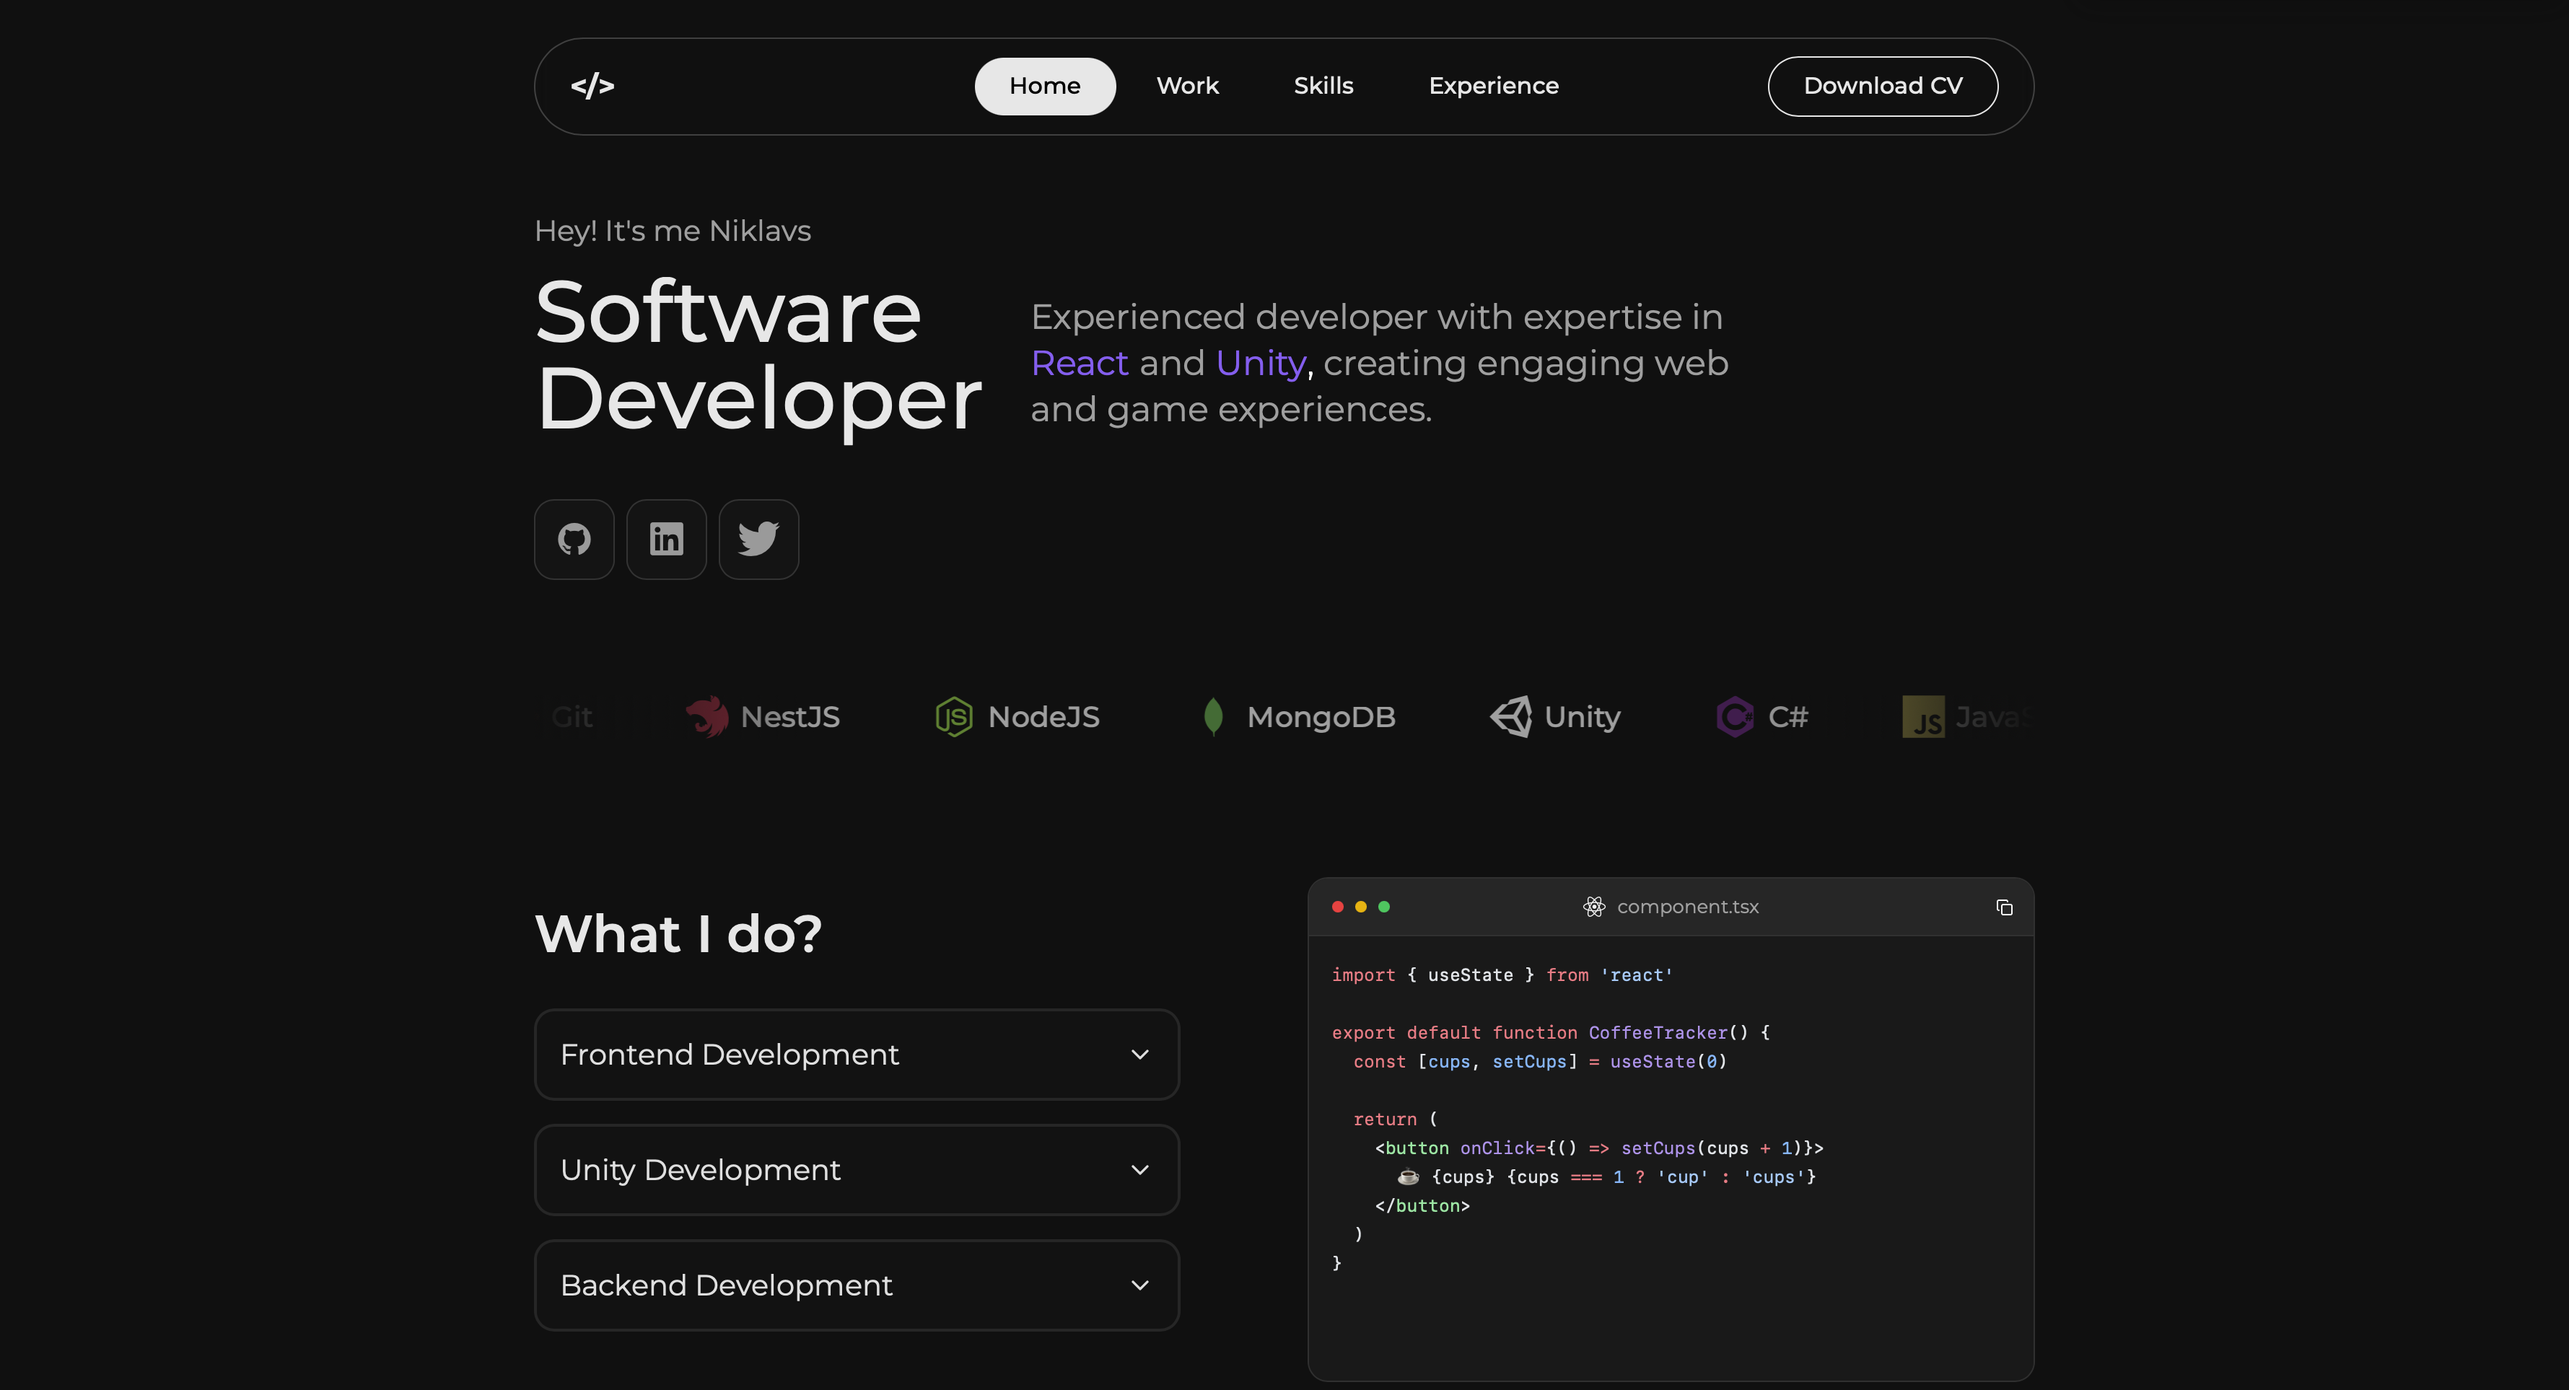
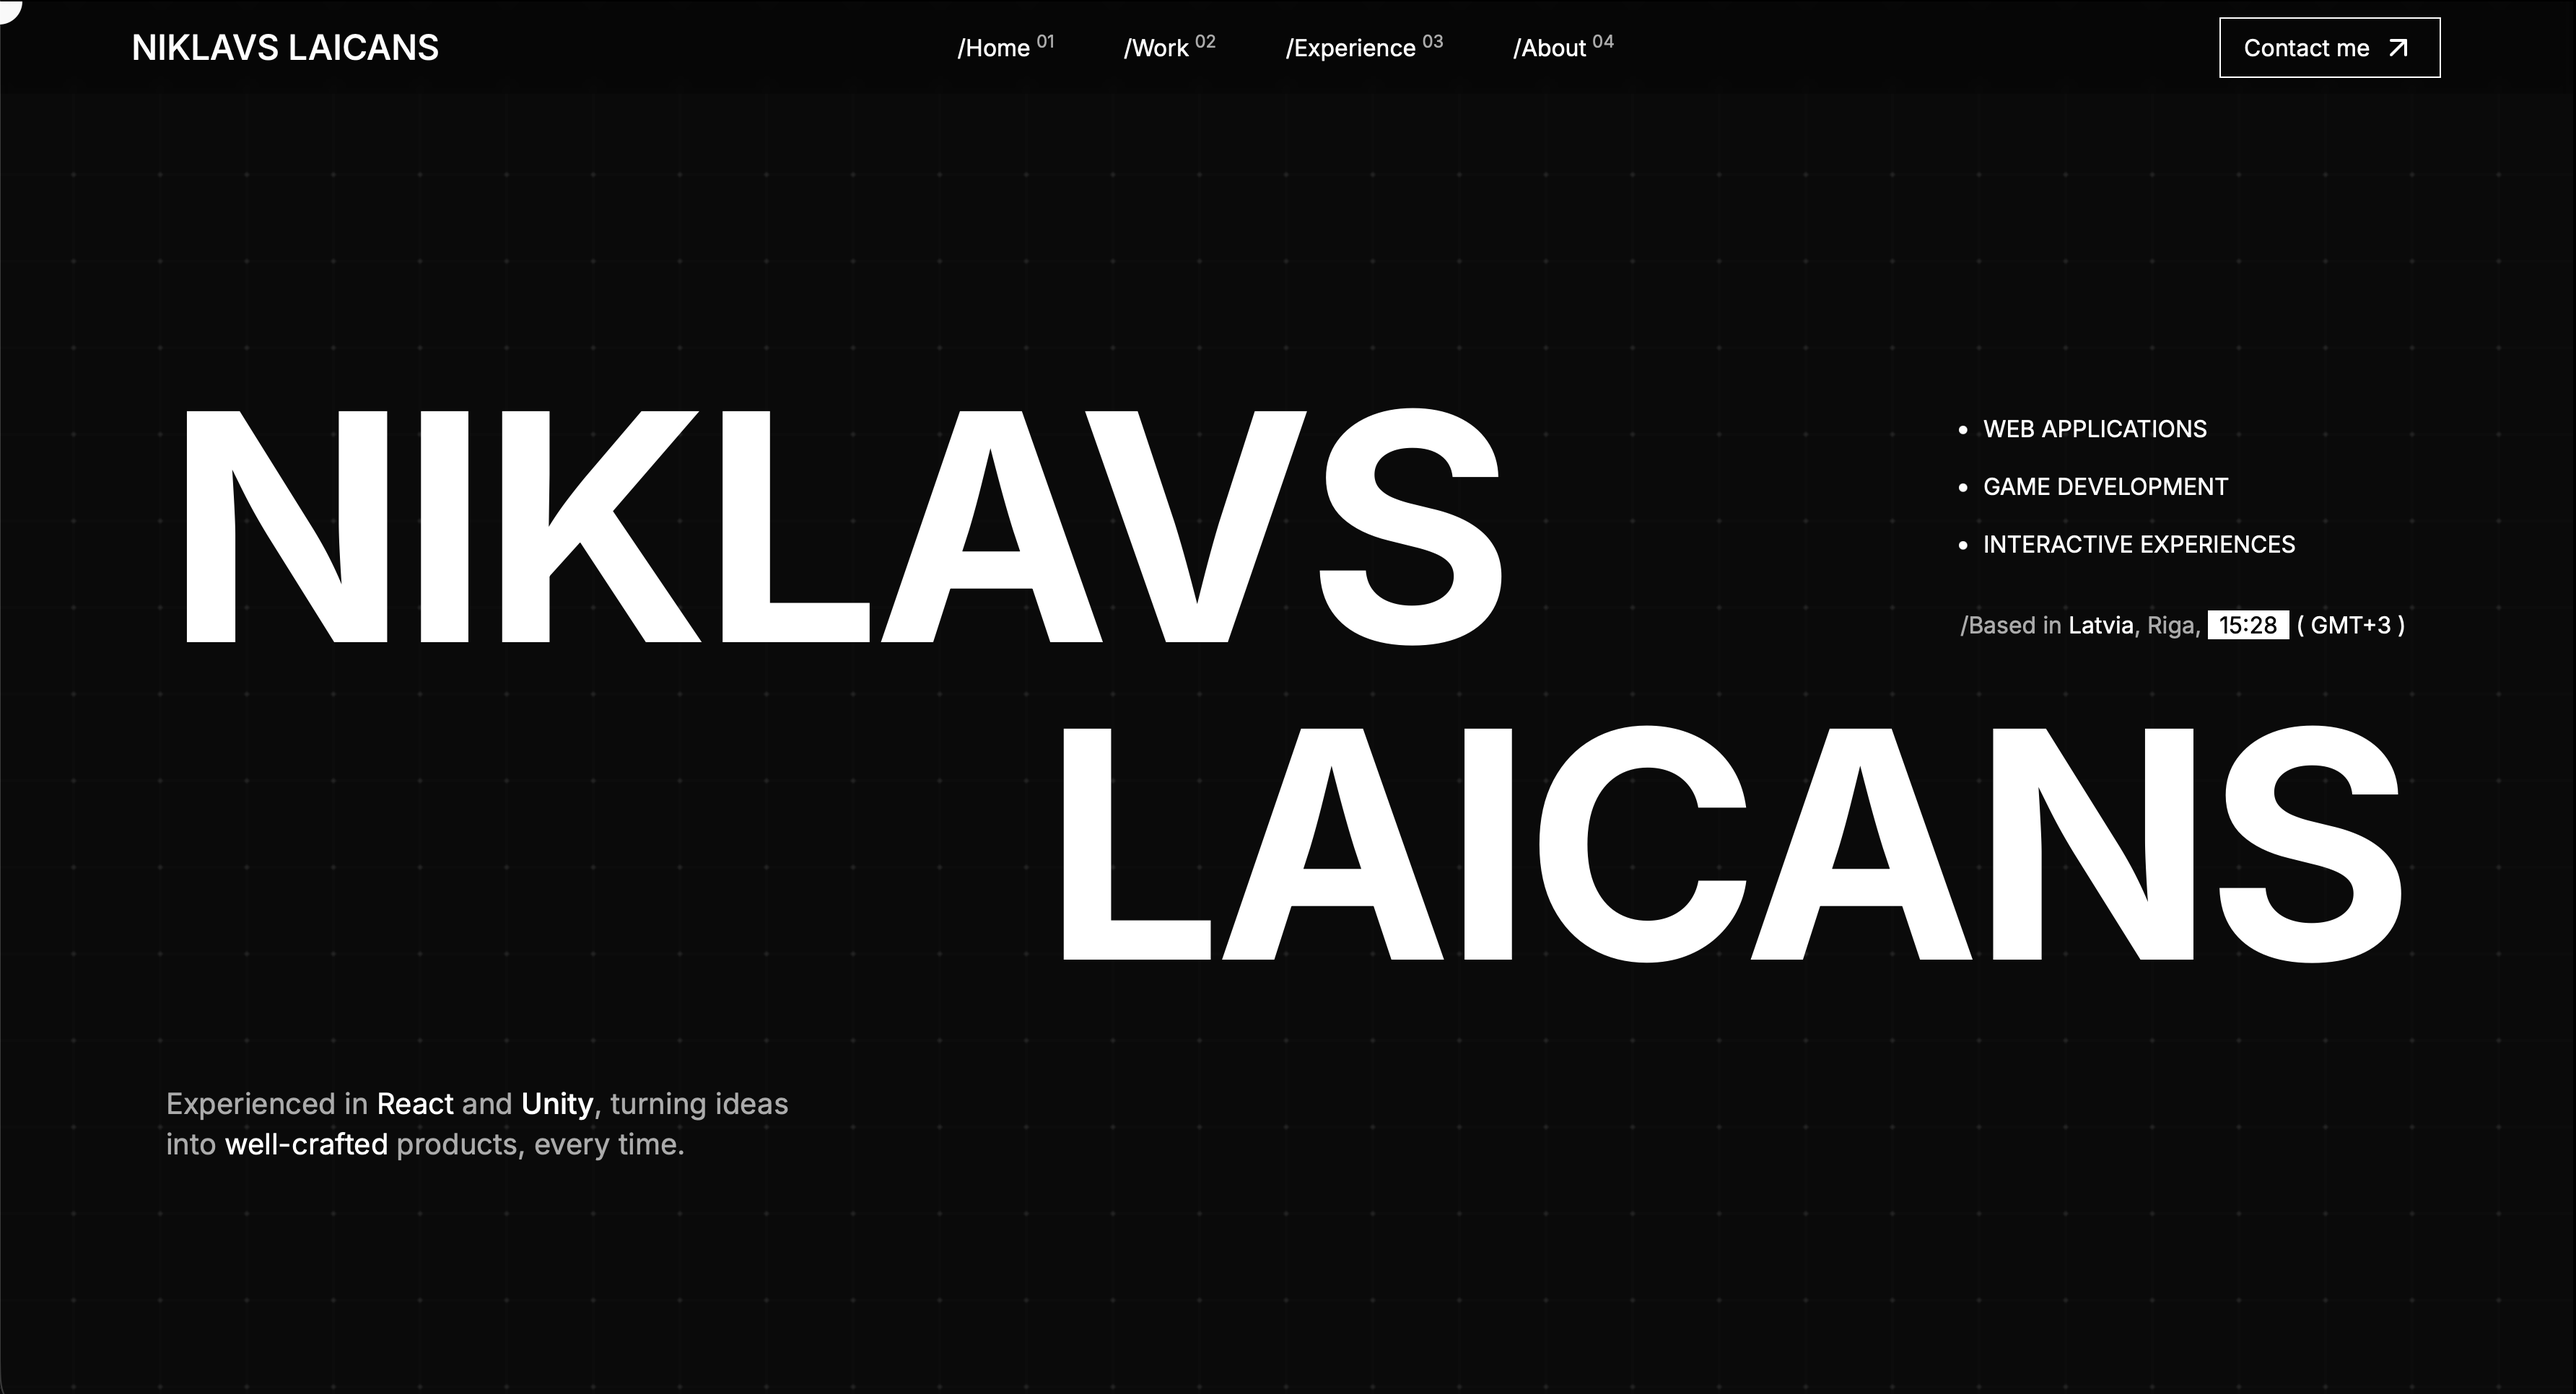
Update work projects and screenshots

diff --git a/src/data/work.ts b/src/data/work.ts
@@ -1,28 +1,28 @@
 import { type Work } from '../types/work'
-import minimalPortfolioImage from '../assets/projects/minimal-portfolio-template.png'
+import portfolioWebsiteImage from '../assets/projects/portfolio-website.png'
 import githubTrafficFrontendImage from '../assets/projects/github-traffic-frontend.png'
 import ticTacToeImage from '../assets/projects/tic-tac-toe.png'
 import googleTrexCloneImage from '../assets/projects/google-trex-clone.png'
-import portfolioWebsiteImage from '../assets/projects/portfolio-website.png'
+import portfolioWebsiteTemplateImage from '../assets/projects/portfolio-website-template.png'
 
 export const workData: Work[] = [
   {
     title: 'Portfolio Website',
     description:
-      'A personal portfolio built with React and TypeScript, featuring smooth scrolling, interactive backgrounds, and a clean minimal design.',
+      "The site you're looking at. A dark, minimal portfolio with an interactive grid hero, Lenis smooth scrolling, scroll-triggered reveals and a custom blend-mode cursor.",
     tags: ['React', 'TypeScript'],
     image: portfolioWebsiteImage,
-    year: '2025',
-    link: 'https://github.com/nikseell/portfolio-website',
+    year: '2026',
+    link: 'https://github.com/Nikseell/portfolio',
   },
   {
-    title: 'Minimal Portfolio Template',
+    title: 'Portfolio Website v1',
     description:
-      'A ready-to-use minimal portfolio template built for developers. Drop in your content, customize the colors, and deploy in minutes.',
+      "My earlier portfolio, built with React and TypeScript. Smooth scrolling, interactive backgrounds and a clean, minimal design, before it was replaced by the site you're on now.",
     tags: ['React', 'TypeScript'],
-    image: minimalPortfolioImage,
+    image: portfolioWebsiteTemplateImage,
     year: '2025',
-    link: 'https://github.com/nikseell/minimal-portfolio-template',
+    link: 'https://github.com/Nikseell/portfolio-website-template',
   },
   {
     title: 'GitHub Traffic Frontend',
